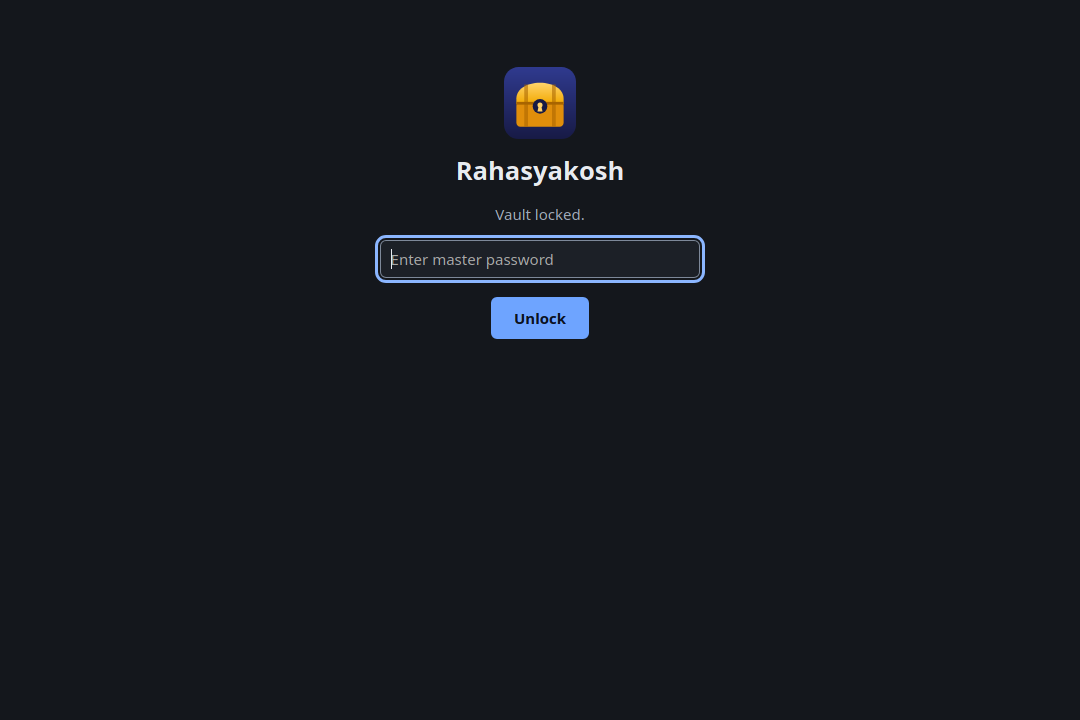
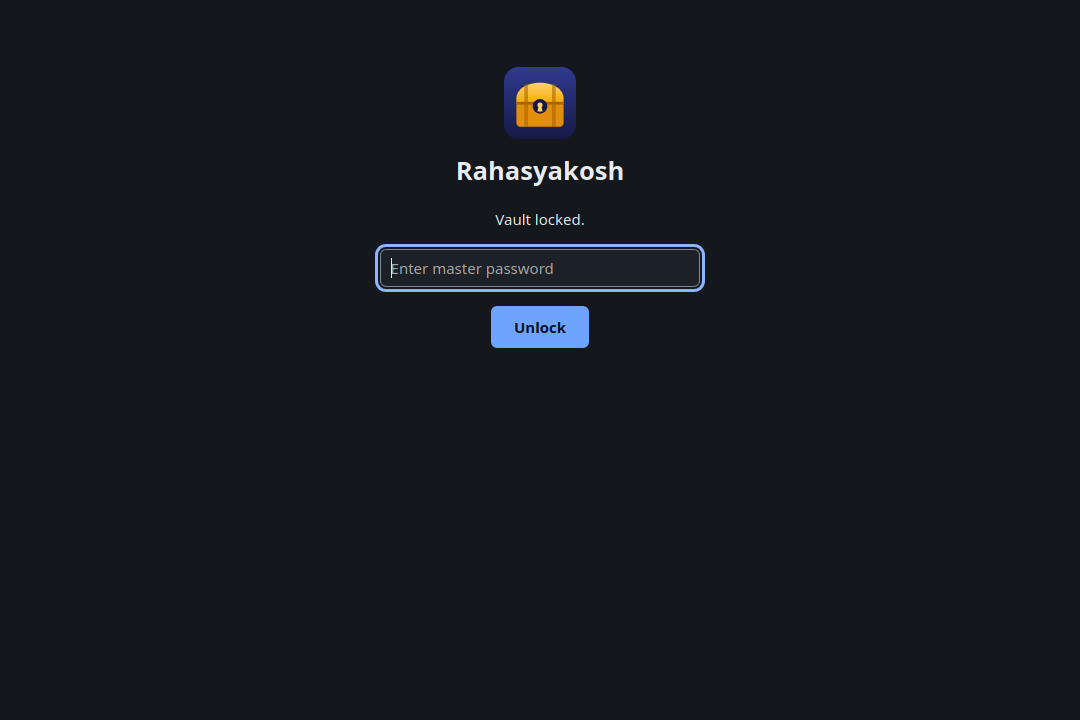
Desktop: even line spacing on the welcome page; unlock description in the same style

Changed region(s): [[0.3361, 0.275, 0.6722, 0.4889]]

diff --git a/apps/desktop/src/lib.rs b/apps/desktop/src/lib.rs
@@ -327,8 +327,11 @@ fn Setup() -> Element {
             main { class: "centre landing",
                 Logo {}
                 h1 { "Welcome to Rahasyakosh" }
-                p { class: "tagline", "A secure store for your passwords." }
-                p { class: "tagline spaced", "Stored in an encrypted file on this computer." br {} "Protected by a master passphrase." }
+                p { class: "tagline spaced",
+                    "A secure store for your passwords." br {}
+                    "Stored in an encrypted file on this computer." br {}
+                    "Protected by a master passphrase."
+                }
                 button { class: "primary", onclick: move |_| started.set(true), "Create master passphrase" }
             }
         };
@@ -404,7 +407,7 @@ fn Unlock() -> Element {
         main { class: "centre landing",
             Logo {}
             h1 { "Rahasyakosh" }
-            p { class: "muted tagline", "Vault locked." }
+            p { class: "tagline spaced", "Vault locked." }
             form {
                 onsubmit: move |e| { e.prevent_default(); submit(); },
                 label { class: "sr-only", r#for: "master", "Master password" }
